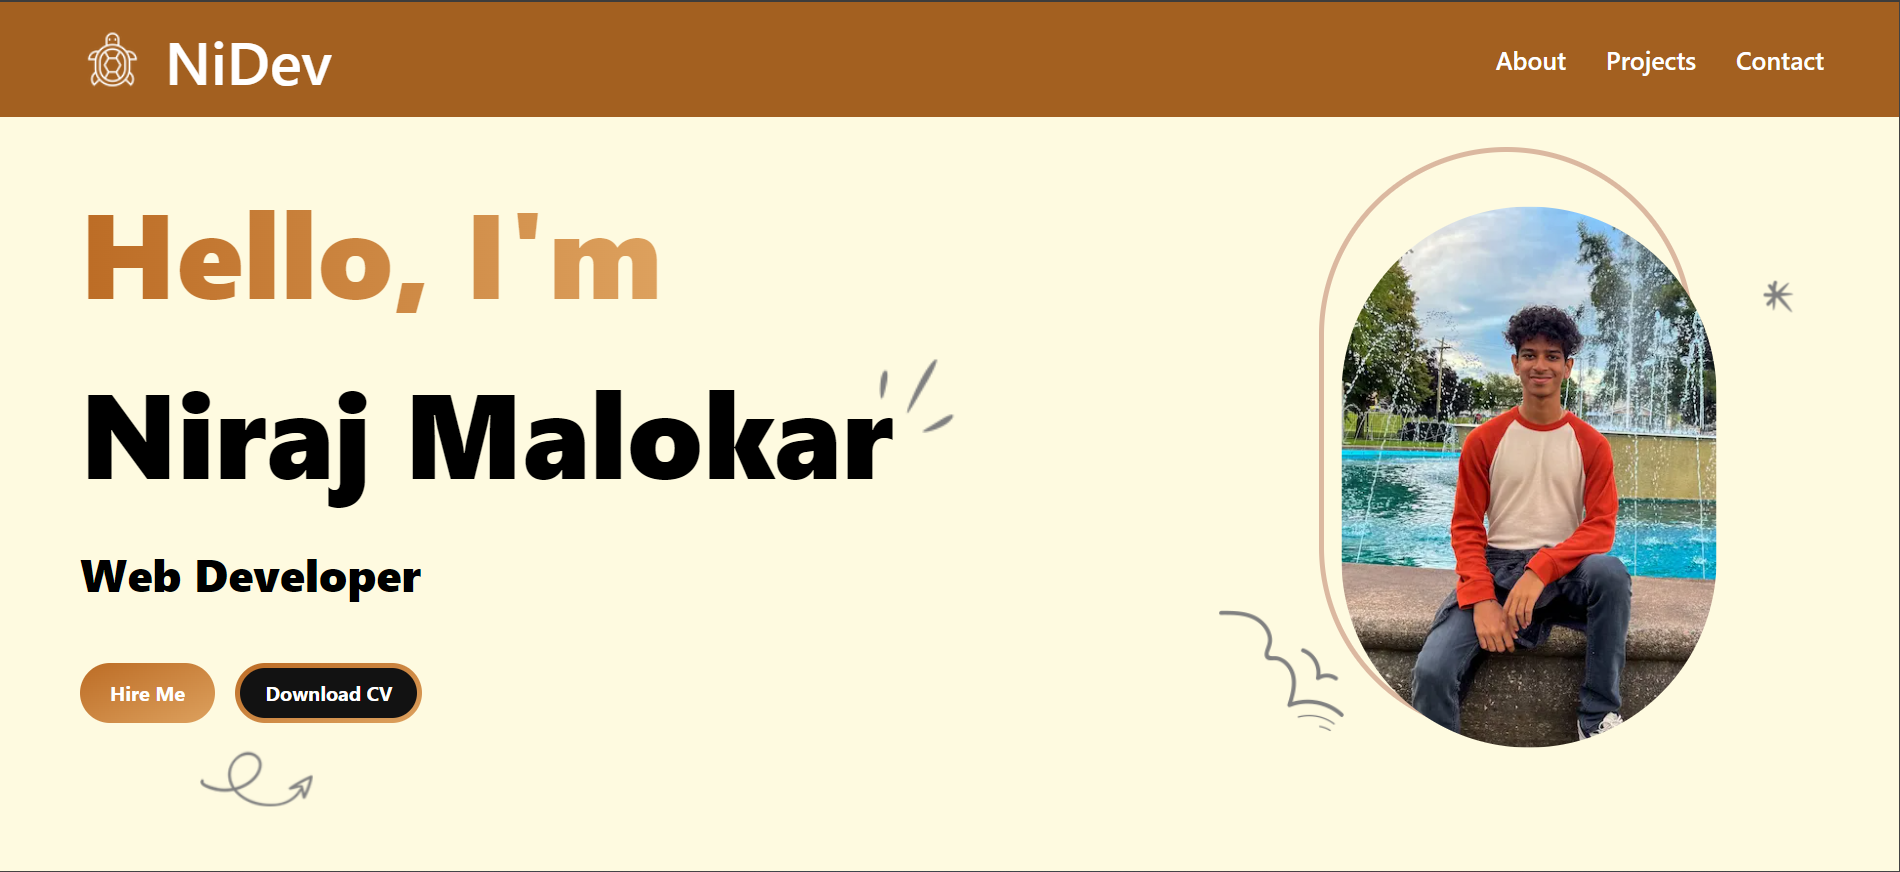
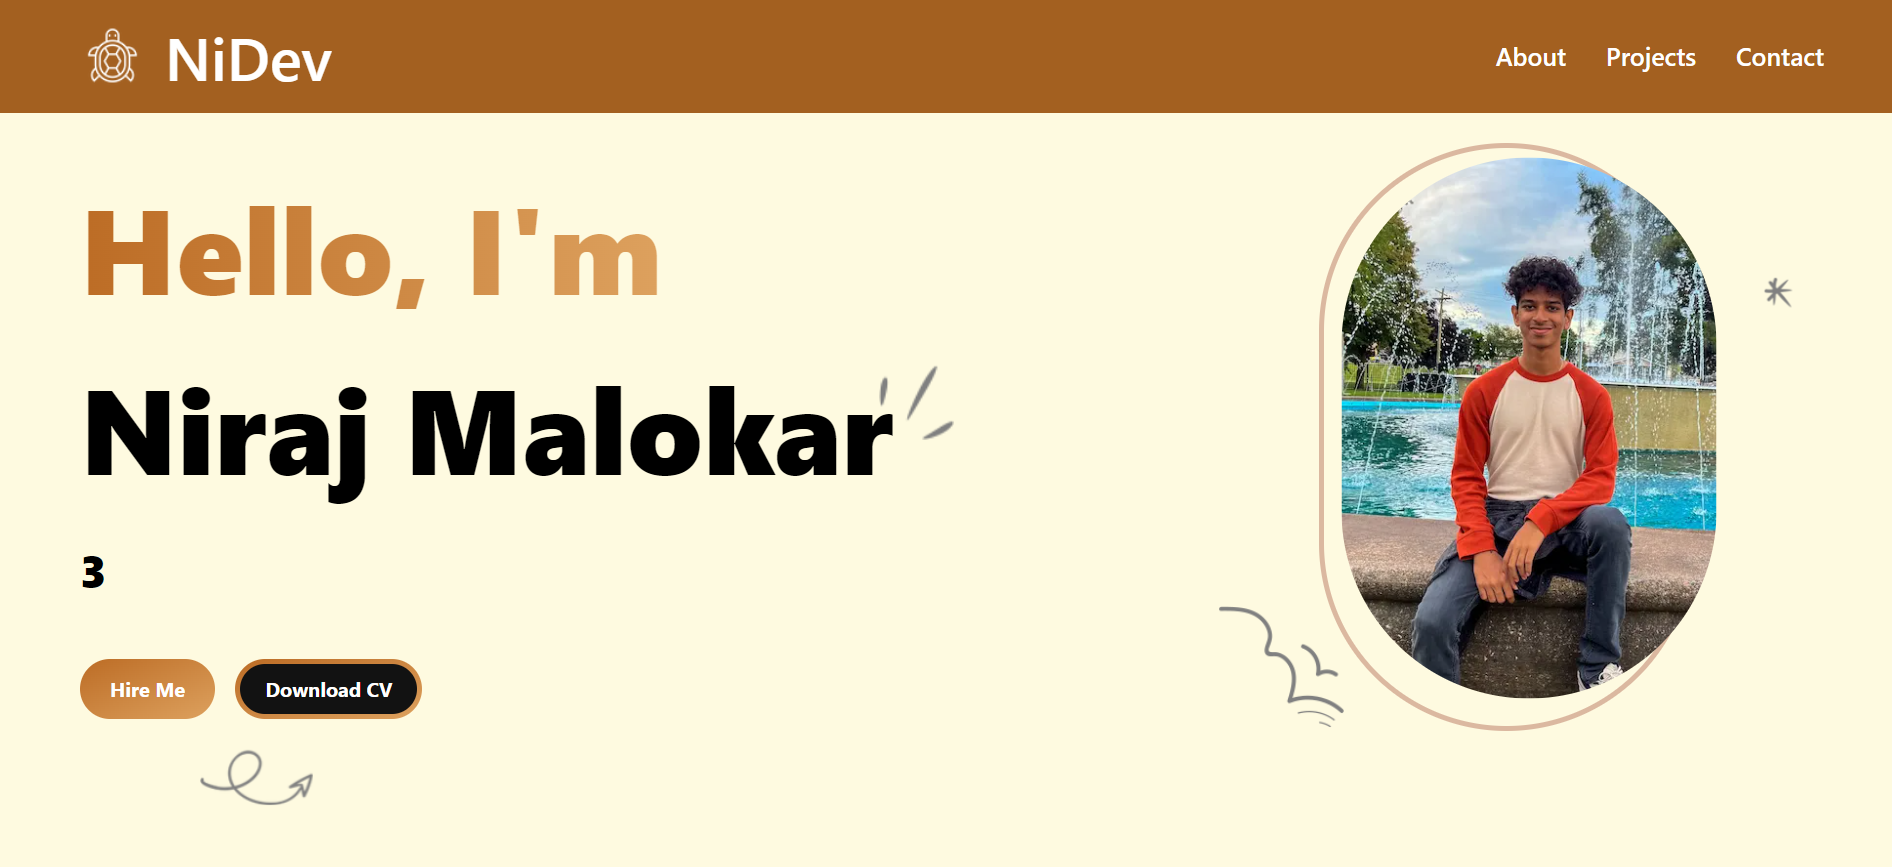
Add ecommerce project

diff --git a/src/app/components/ProjectsSection.jsx b/src/app/components/ProjectsSection.jsx
@@ -7,39 +7,39 @@ import { motion, useInView } from "framer-motion";
 const projectsData = [
   {
     id: 1,
-    title: "React Portfolio Website",
-    description: "Project 1 description",
-    image: "/images/projects/1.png",
-    tag: ["All", "Web"],
-    gitUrl: "/",
-    previewUrl: "/",
+    title: "Dev Overflow Fullstack Website",
+    description: "Responsive full stack stack overflow clone implementing auth, reputation, recommendation algorithm, global and local search. Technologies used: NextJS, Tailwind, MongoDB, Typescript",
+    image: "/images/projects/devflow-tn.png",
+    tag: ["All", "Fullstack", "Mobile", ],
+    gitUrl: "https://github.com/NirajMalokar21/stack_overflow_nextjs14",
+    previewUrl: "https://stack-overflow-nextjs14-eta.vercel.app/",
   },
   {
     id: 2,
-    title: "Potography Portfolio Website",
-    description: "Project 2 description",
-    image: "/images/projects/2.png",
-    tag: ["All", "Web"],
-    gitUrl: "/",
-    previewUrl: "/",
+    title: "IPhone 15 Landing page",
+    description: "Responsive front-end application using React and tailwind for design and GSAP for animations.",
+    image: "/images/projects/iphone-tn.png",
+    tag: ["All", "Mobile"],
+    gitUrl: "https://github.com/NirajMalokar21/Apple-Iphone-Website",
+    previewUrl: "https://apple-iphone-website-mu.vercel.app/",
   },
   {
     id: 3,
-    title: "E-commerce Application",
-    description: "Project 3 description",
-    image: "/images/projects/3.png",
+    title: "Portfolio Website",
+    description: "Responsive front-end Application showcasing my projects and skills created using NextJS, tailwind, GSAP, and Framer Motion.",
+    image: "/images/projects/portfolio-tn.png",
     tag: ["All", "Web"],
-    gitUrl: "/",
+    gitUrl: "https://github.com/NirajMalokar21/Portfolio-Website",
     previewUrl: "/",
   },
   {
     id: 4,
-    title: "Food Ordering Application",
-    description: "Project 4 description",
-    image: "/images/projects/4.png",
-    tag: ["All", "Mobile"],
-    gitUrl: "/",
-    previewUrl: "/",
+    title: "E-Commerce website",
+    description: "Developed an E-Commerce website using the MERN stack, using multer for image storage, render and vercel for deployment. Implemented admin page and functionality to add and remove projects.",
+    image: "/images/projects/ecomm-portfolio-tn.png",
+    tag: ["All", "Fullstack"],
+    gitUrl: "https://github.com/NirajMalokar21/E-Commerce-App",
+    previewUrl: "https://e-commerce-app-three-psi.vercel.app/",
   },
   {
     id: 5,

diff --git a/src/app/components/ProjectCard.jsx b/src/app/components/ProjectCard.jsx
@@ -1,33 +1,34 @@
 "use client"
 import React from "react";
 import { CodeBracketIcon, EyeIcon } from "@heroicons/react/24/outline";
-import Link from "next/link";
 
 const ProjectCard = ({ imgUrl, title, description, gitUrl, previewUrl }) => {
   return (
     <div>
       <div
         className="h-52 md:h-72 rounded-t-xl relative group"
-        style={{ background: `url(${imgUrl})`, backgroundSize: "cover" }}
+        style={{ background: `url(${imgUrl})`, backgroundSize: "cover", backgroundPosition: "center", overflow: "hidden" }}
       >
         <div className="overlay items-center justify-center absolute top-0 left-0 w-full h-full bg-[#181818] bg-opacity-0 hidden group-hover:flex group-hover:bg-opacity-80 transition-all duration-500 ">
-          <Link
+          <a
             href={gitUrl}
+            target="_blank"
             className="h-14 w-14 mr-2 border-2 relative rounded-full border-[#ADB7BE] hover:border-white group/link"
           >
             <CodeBracketIcon className="h-10 w-10 text-[#ADB7BE] absolute top-1/2 left-1/2 transform -translate-x-1/2 -translate-y-1/2  cursor-pointer group-hover/link:text-white" />
-          </Link>
-          <Link
+          </a>
+          <a
             href={previewUrl}
+            target="_blank"
             className="h-14 w-14 border-2 relative rounded-full border-[#ADB7BE] hover:border-white group/link"
           >
             <EyeIcon className="h-10 w-10 text-[#ADB7BE] absolute top-1/2 left-1/2 transform -translate-x-1/2 -translate-y-1/2  cursor-pointer group-hover/link:text-white" />
-          </Link>
+          </a>
         </div>
       </div>
       <div className="text-black rounded-b-xl mt-3 bg-[#181818]py-6 px-4">
-        <h5 className="text-xl font-semibold mb-2">{title}</h5>
-        <p className="text-[#676c70]">{description}</p>
+        <h5 className="text-2xl font-bold mb-2">{title}</h5>
+        <p className="text-black font-medium">{description}</p>
       </div>
     </div>
   );

diff --git a/src/app/components/HeroSection.jsx b/src/app/components/HeroSection.jsx
@@ -50,7 +50,7 @@ const HeroSection = () => {
   }, [])
   
   return (
-    <section className="max-md:pb-44 pb-4">
+    <section className="max-md:pb-44 pb-4 pt-8">
       <div className="grid grid-cols-1 sm:grid-cols-12">
         <div
           id="hero_text"
